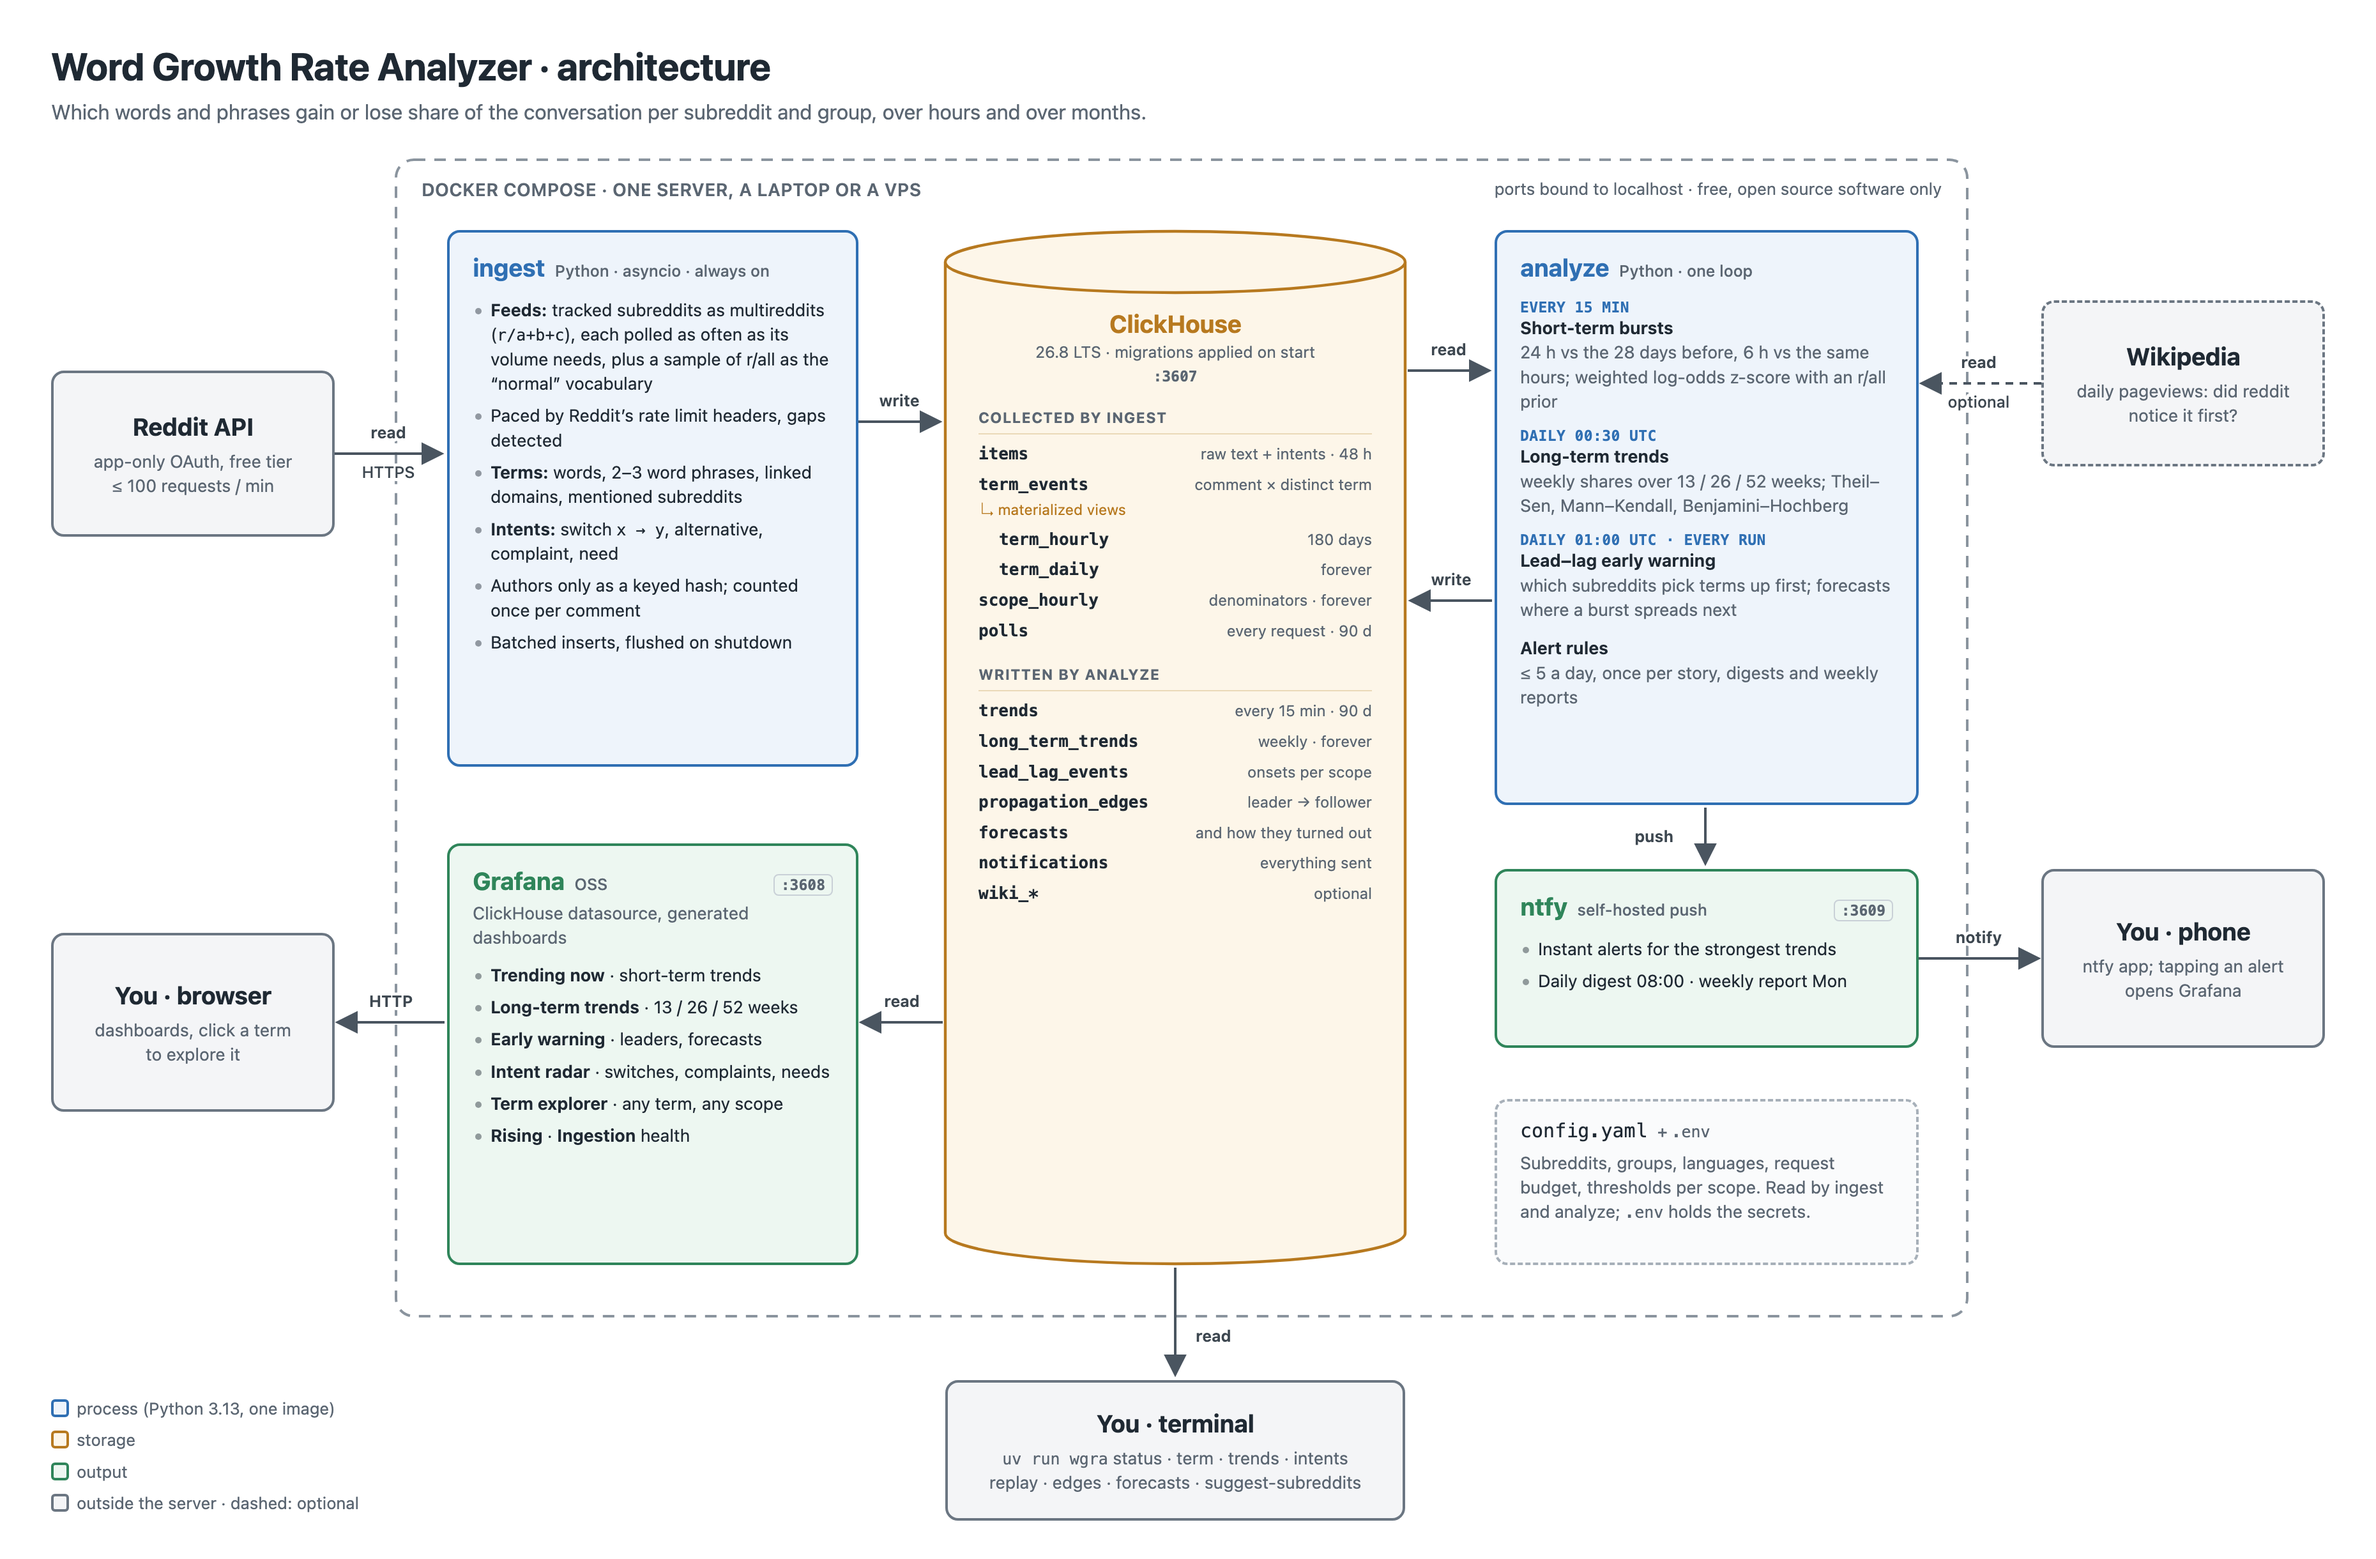
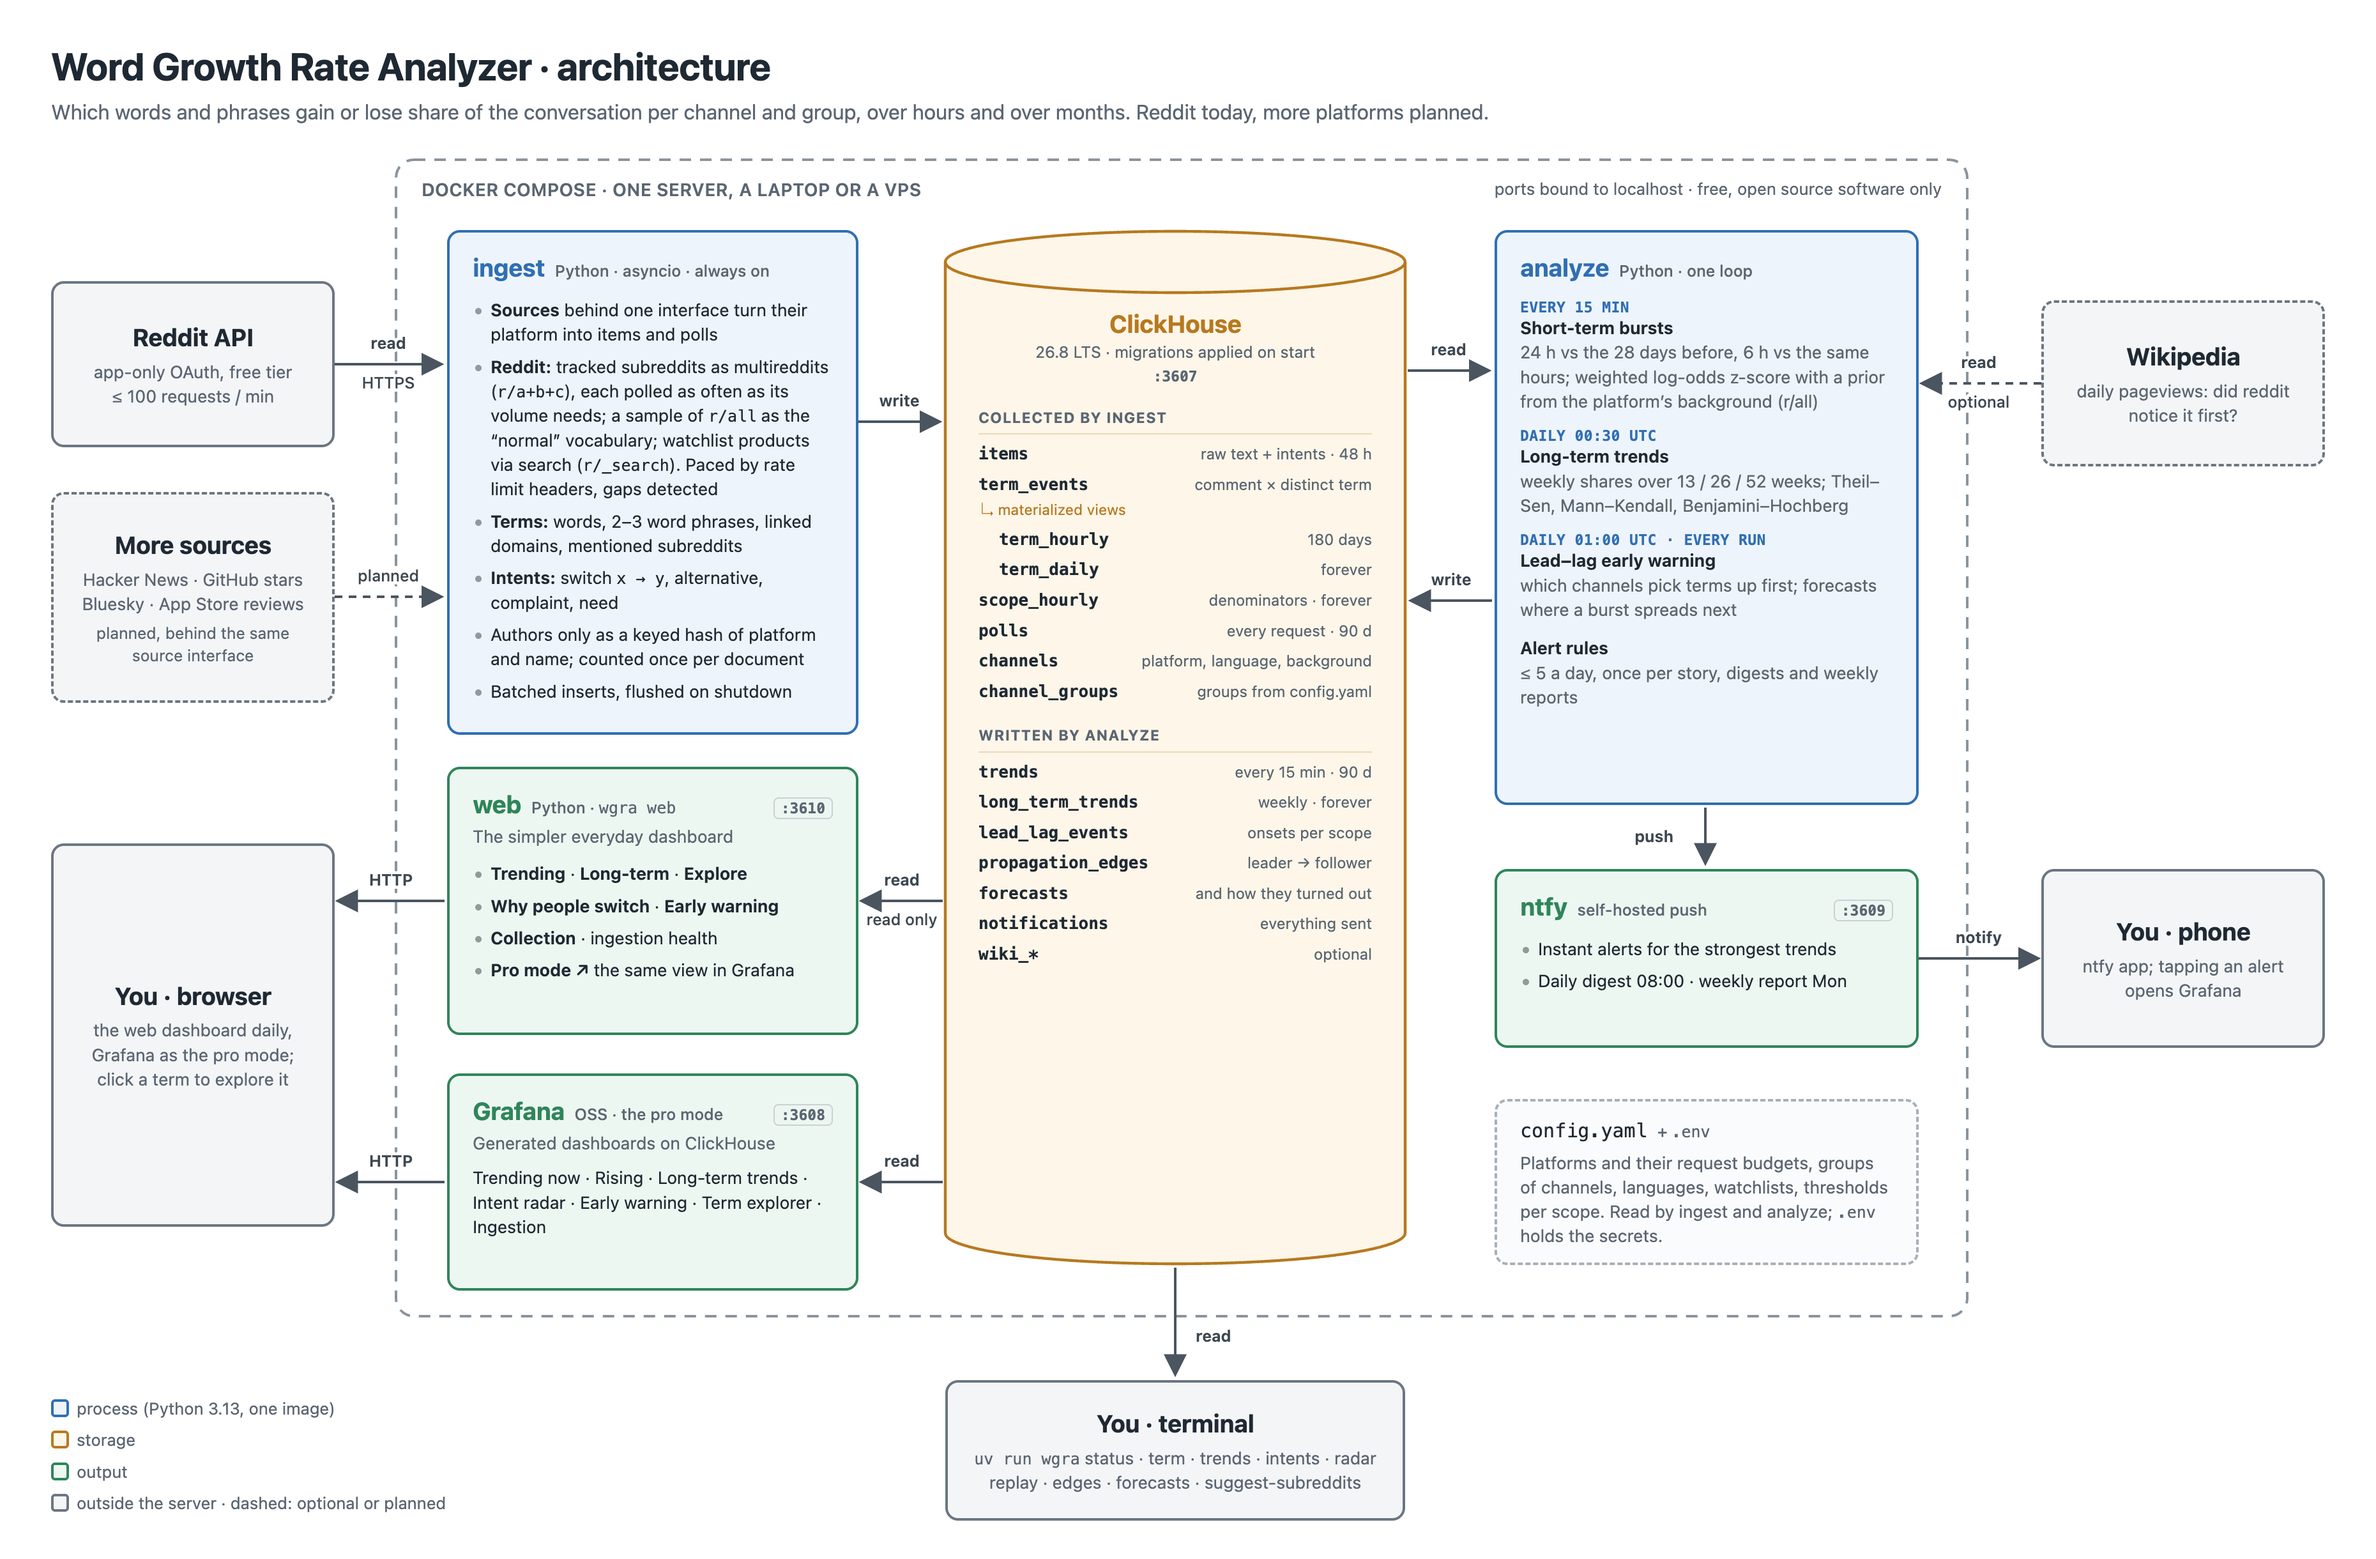
Architecture diagram: sources behind one interface, channels and their tables, planned platforms, the web dashboard on 3610 next to Grafana as the pro mode

diff --git a/docs/architecture.html b/docs/architecture.html
@@ -92,17 +92,21 @@
 
   <g stroke="#4a5560" stroke-width="2" fill="none" marker-end="url(#a)">
     <!-- reddit -> ingest -->
-    <line x1="262" y1="355" x2="346" y2="355"/>
+    <line x1="262" y1="285" x2="346" y2="285"/>
     <!-- ingest -> clickhouse -->
     <line x1="672" y1="330" x2="736" y2="330"/>
     <!-- clickhouse -> analyze (read) -->
     <line x1="1102" y1="290" x2="1166" y2="290"/>
     <!-- analyze -> clickhouse (write) -->
     <line x1="1168" y1="470" x2="1104" y2="470"/>
+    <!-- clickhouse -> web -->
+    <line x1="738" y1="705" x2="674" y2="705"/>
+    <!-- web -> browser -->
+    <line x1="348" y1="705" x2="264" y2="705"/>
     <!-- clickhouse -> grafana -->
-    <line x1="738" y1="800" x2="674" y2="800"/>
+    <line x1="738" y1="925" x2="674" y2="925"/>
     <!-- grafana -> browser -->
-    <line x1="348" y1="800" x2="264" y2="800"/>
+    <line x1="348" y1="925" x2="264" y2="925"/>
     <!-- analyze -> ntfy -->
     <line x1="1335" y1="632" x2="1335" y2="676"/>
     <!-- ntfy -> phone -->
@@ -110,18 +114,26 @@
     <!-- clickhouse -> cli -->
     <line x1="920" y1="992" x2="920" y2="1076"/>
   </g>
-  <!-- wikipedia -> analyze, optional -->
-  <line x1="1598" y1="300" x2="1504" y2="300" stroke="#4a5560" stroke-width="2" stroke-dasharray="6 5" marker-end="url(#a)"/>
+  <g stroke="#4a5560" stroke-width="2" stroke-dasharray="6 5" fill="none" marker-end="url(#a)">
+    <!-- wikipedia -> analyze, optional -->
+    <line x1="1598" y1="300" x2="1504" y2="300"/>
+    <!-- planned sources -> ingest -->
+    <line x1="262" y1="467" x2="346" y2="467"/>
+  </g>
 
   <g font-family="-apple-system, BlinkMacSystemFont, Helvetica Neue, Arial" font-size="12.5" font-weight="650" fill="#3d4750"
      paint-order="stroke" stroke="#ffffff" stroke-width="5" stroke-linejoin="round" text-anchor="middle">
-    <text x="304" y="343">read</text>
-    <text x="304" y="374" font-weight="500">HTTPS</text>
+    <text x="304" y="273">read</text>
+    <text x="304" y="304" font-weight="500">HTTPS</text>
+    <text x="304" y="455" font-weight="500">planned</text>
     <text x="704" y="318">write</text>
     <text x="1134" y="278">read</text>
     <text x="1136" y="458">write</text>
-    <text x="706" y="788">read</text>
-    <text x="306" y="788">HTTP</text>
+    <text x="706" y="693">read</text>
+    <text x="706" y="724" font-weight="500">read only</text>
+    <text x="306" y="693">HTTP</text>
+    <text x="706" y="913">read</text>
+    <text x="306" y="913">HTTP</text>
     <text x="1310" y="659" text-anchor="end">push</text>
     <text x="1549" y="738">notify</text>
     <text x="1549" y="288">read</text>
@@ -131,18 +143,23 @@
 </svg>
 
 <div class="title">Word Growth Rate Analyzer · architecture</div>
-<div class="subtitle">Which words and phrases gain or lose share of the conversation per subreddit and group, over hours and over months.</div>
+<div class="subtitle">Which words and phrases gain or lose share of the conversation per channel and group, over hours and over months. Reddit today, more platforms planned.</div>
 <div class="boundary-label">docker compose · one server, a laptop or a VPS</div>
 <div class="boundary-note">ports bound to localhost · free, open source software only</div>
 
 <!-- external: left -->
-<div class="box ext" style="left:40px; top:290px; width:222px; height:130px;">
+<div class="box ext" style="left:40px; top:220px; width:222px; height:130px;">
   <h3>Reddit API</h3>
   <p>app-only OAuth, free tier<br>≤ 100 requests / min</p>
 </div>
-<div class="box ext" style="left:40px; top:730px; width:222px; height:140px;">
+<div class="box ext dashed" style="left:40px; top:385px; width:222px; height:165px;">
+  <h3>More sources</h3>
+  <p>Hacker News · GitHub stars<br>Bluesky · App Store reviews</p>
+  <p style="font-size:12.5px;">planned, behind the same<br>source interface</p>
+</div>
+<div class="box ext" style="left:40px; top:660px; width:222px; height:300px;">
   <h3>You · browser</h3>
-  <p>dashboards, click a term<br>to explore it</p>
+  <p>the web dashboard daily,<br>Grafana as the pro mode;<br>click a term to explore it</p>
 </div>
 
 <!-- external: right -->
@@ -156,30 +173,35 @@
 </div>
 
 <!-- ingest -->
-<div class="box proc" style="left:350px; top:180px; width:322px; height:420px;">
+<div class="box proc" style="left:350px; top:180px; width:322px; height:395px;">
   <h3>ingest <span class="tag">Python · asyncio · always on</span></h3>
   <ul>
-    <li><b>Feeds:</b> tracked subreddits as multireddits (<code>r/a+b+c</code>), each polled as often as its volume needs, plus a sample of r/all as the “normal” vocabulary</li>
-    <li>Paced by Reddit’s rate limit headers, gaps detected</li>
+    <li><b>Sources</b> behind one interface turn their platform into items and polls</li>
+    <li><b>Reddit:</b> tracked subreddits as multireddits (<code>r/a+b+c</code>), each polled as often as its volume needs; a sample of <code>r/all</code> as the “normal” vocabulary; watchlist products via search (<code>r/_search</code>). Paced by rate limit headers, gaps detected</li>
     <li><b>Terms:</b> words, 2–3 word phrases, linked domains, mentioned subreddits</li>
     <li><b>Intents:</b> switch <code>x → y</code>, alternative, complaint, need</li>
-    <li>Authors only as a keyed hash; counted once per comment</li>
+    <li>Authors only as a keyed hash of platform and name; counted once per document</li>
     <li>Batched inserts, flushed on shutdown</li>
   </ul>
 </div>
 
-<!-- grafana -->
-<div class="box out" style="left:350px; top:660px; width:322px; height:330px;">
-  <h3>Grafana <span class="tag">OSS</span><span class="port">:3608</span></h3>
-  <div style="color:var(--muted); margin-top:2px;">ClickHouse datasource, generated dashboards</div>
+<!-- web dashboard -->
+<div class="box out" style="left:350px; top:600px; width:322px; height:210px;">
+  <h3>web <span class="tag">Python · <code>wgra web</code></span><span class="port">:3610</span></h3>
+  <div style="color:var(--muted); margin-top:2px;">The simpler everyday dashboard</div>
   <ul>
-    <li><b>Trending now</b> · short-term trends</li>
-    <li><b>Long-term trends</b> · 13 / 26 / 52 weeks</li>
-    <li><b>Early warning</b> · leaders, forecasts</li>
-    <li><b>Intent radar</b> · switches, complaints, needs</li>
-    <li><b>Term explorer</b> · any term, any scope</li>
-    <li><b>Rising</b> · <b>Ingestion</b> health</li>
+    <li><b>Trending</b> · <b>Long-term</b> · <b>Explore</b></li>
+    <li><b>Why people switch</b> · <b>Early warning</b></li>
+    <li><b>Collection</b> · ingestion health</li>
+    <li><b>Pro mode ↗</b> the same view in Grafana</li>
   </ul>
+</div>
+
+<!-- grafana -->
+<div class="box out" style="left:350px; top:840px; width:322px; height:170px;">
+  <h3>Grafana <span class="tag">OSS · the pro mode</span><span class="port">:3608</span></h3>
+  <div style="color:var(--muted); margin-top:2px;">Generated dashboards on ClickHouse</div>
+  <div style="margin-top:8px;">Trending now · Rising · Long-term trends · Intent radar · Early warning · Term explorer · Ingestion</div>
 </div>
 
 <!-- clickhouse -->
@@ -196,6 +218,8 @@
   <div class="tbl sub"><code>term_daily</code><span>forever</span></div>
   <div class="tbl"><code>scope_hourly</code><span>denominators · forever</span></div>
   <div class="tbl"><code>polls</code><span>every request · 90 d</span></div>
+  <div class="tbl"><code>channels</code><span>platform, language, background</span></div>
+  <div class="tbl"><code>channel_groups</code><span>groups from config.yaml</span></div>
 
   <h4>Written by analyze</h4>
   <div class="tbl"><code>trends</code><span>every 15 min · 90 d</span></div>
@@ -213,7 +237,7 @@
   <div class="step">
     <div class="when">every 15 min</div>
     <div class="what">Short-term bursts</div>
-    <div class="how">24 h vs the 28 days before, 6 h vs the same hours; weighted log-odds z-score with an r/all prior</div>
+    <div class="how">24 h vs the 28 days before, 6 h vs the same hours; weighted log-odds z-score with a prior from the platform’s background (r/all)</div>
   </div>
   <div class="step">
     <div class="when">daily 00:30 UTC</div>
@@ -223,7 +247,7 @@
   <div class="step">
     <div class="when">daily 01:00 UTC · every run</div>
     <div class="what">Lead–lag early warning</div>
-    <div class="how">which subreddits pick terms up first; forecasts where a burst spreads next</div>
+    <div class="how">which channels pick terms up first; forecasts where a burst spreads next</div>
   </div>
   <div class="step">
     <div class="what">Alert rules</div>
@@ -243,20 +267,20 @@
 <!-- config -->
 <div class="box file" style="left:1170px; top:860px; width:332px; height:130px;">
   <h3 style="font-size:16px;"><code style="font-size:15px;">config.yaml</code> <span class="tag">+ <code>.env</code></span></h3>
-  <div style="color:var(--muted); margin-top:6px;">Subreddits, groups, languages, request budget, thresholds per scope. Read by ingest and analyze; <code>.env</code> holds the secrets.</div>
+  <div style="color:var(--muted); margin-top:6px;">Platforms and their request budgets, groups of channels, languages, watchlists, thresholds per scope. Read by ingest and analyze; <code>.env</code> holds the secrets.</div>
 </div>
 
 <!-- cli -->
 <div class="box ext" style="left:740px; top:1080px; width:360px; height:110px;">
   <h3>You · terminal</h3>
-  <p><code>uv run wgra</code> status · term · trends · intents<br>replay · edges · forecasts · suggest-subreddits</p>
+  <p><code>uv run wgra</code> status · term · trends · intents · radar<br>replay · edges · forecasts · suggest-subreddits</p>
 </div>
 
 <div class="legend">
   <div><span class="sw" style="border-color:var(--proc); background:var(--proc-bg)"></span>process (Python 3.13, one image)</div>
   <div><span class="sw" style="border-color:var(--store); background:var(--store-bg)"></span>storage</div>
   <div><span class="sw" style="border-color:var(--out); background:var(--out-bg)"></span>output</div>
-  <div><span class="sw" style="border-color:var(--line); background:var(--ext-bg)"></span>outside the server · dashed: optional</div>
+  <div><span class="sw" style="border-color:var(--line); background:var(--ext-bg)"></span>outside the server · dashed: optional or planned</div>
 </div>
 
 </body>
